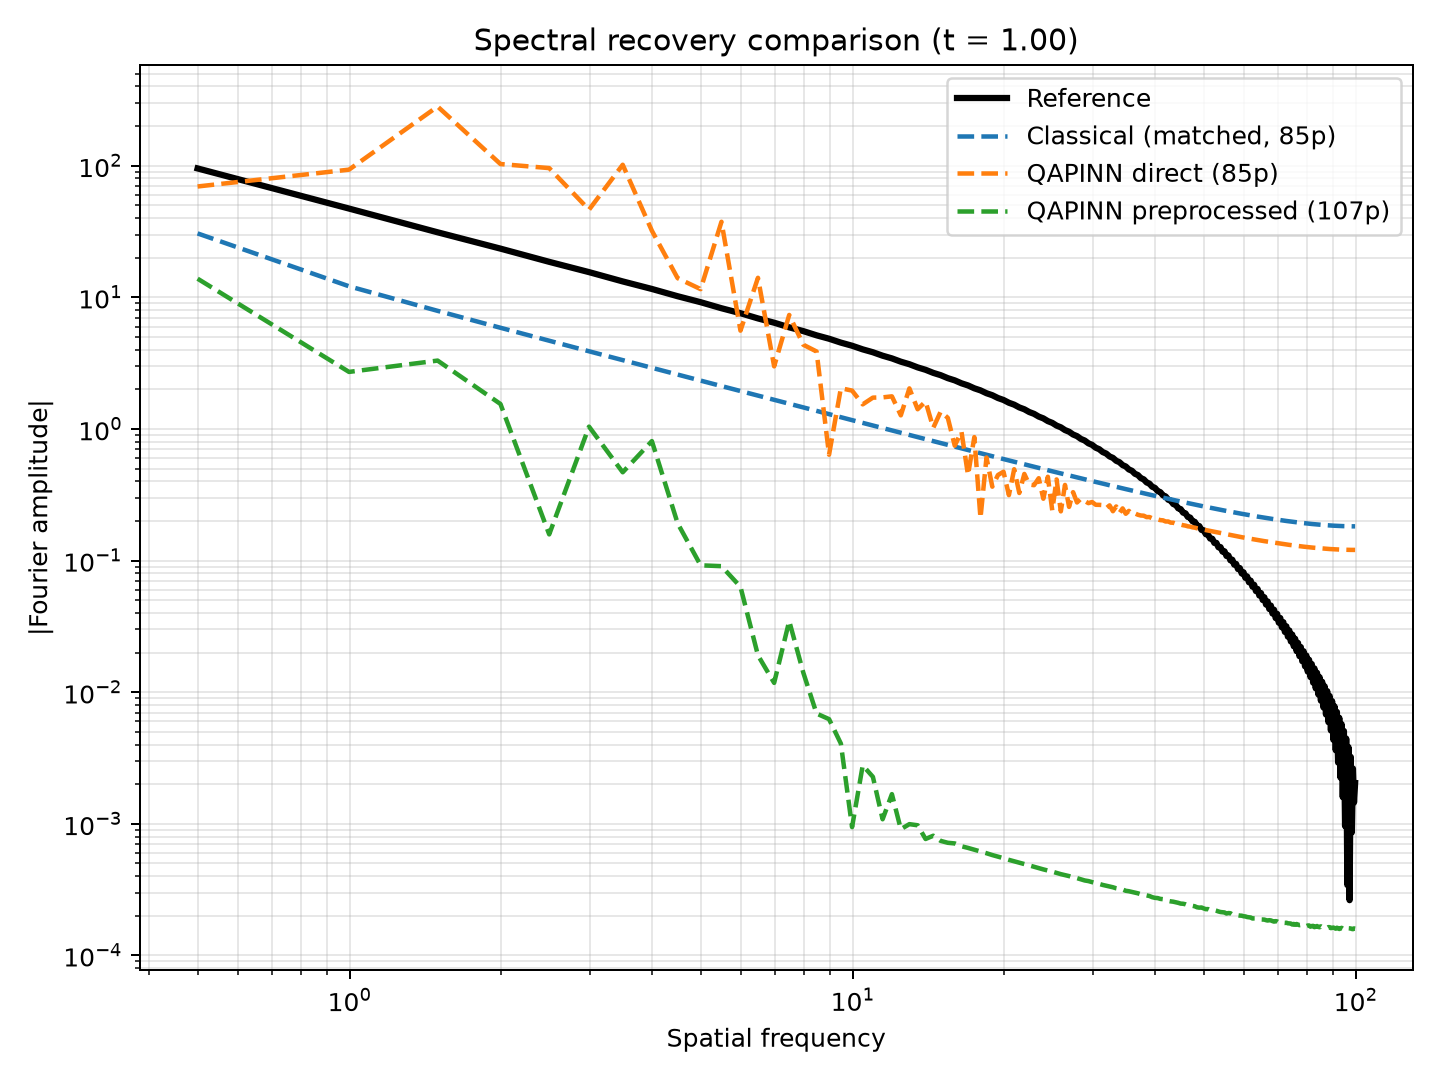
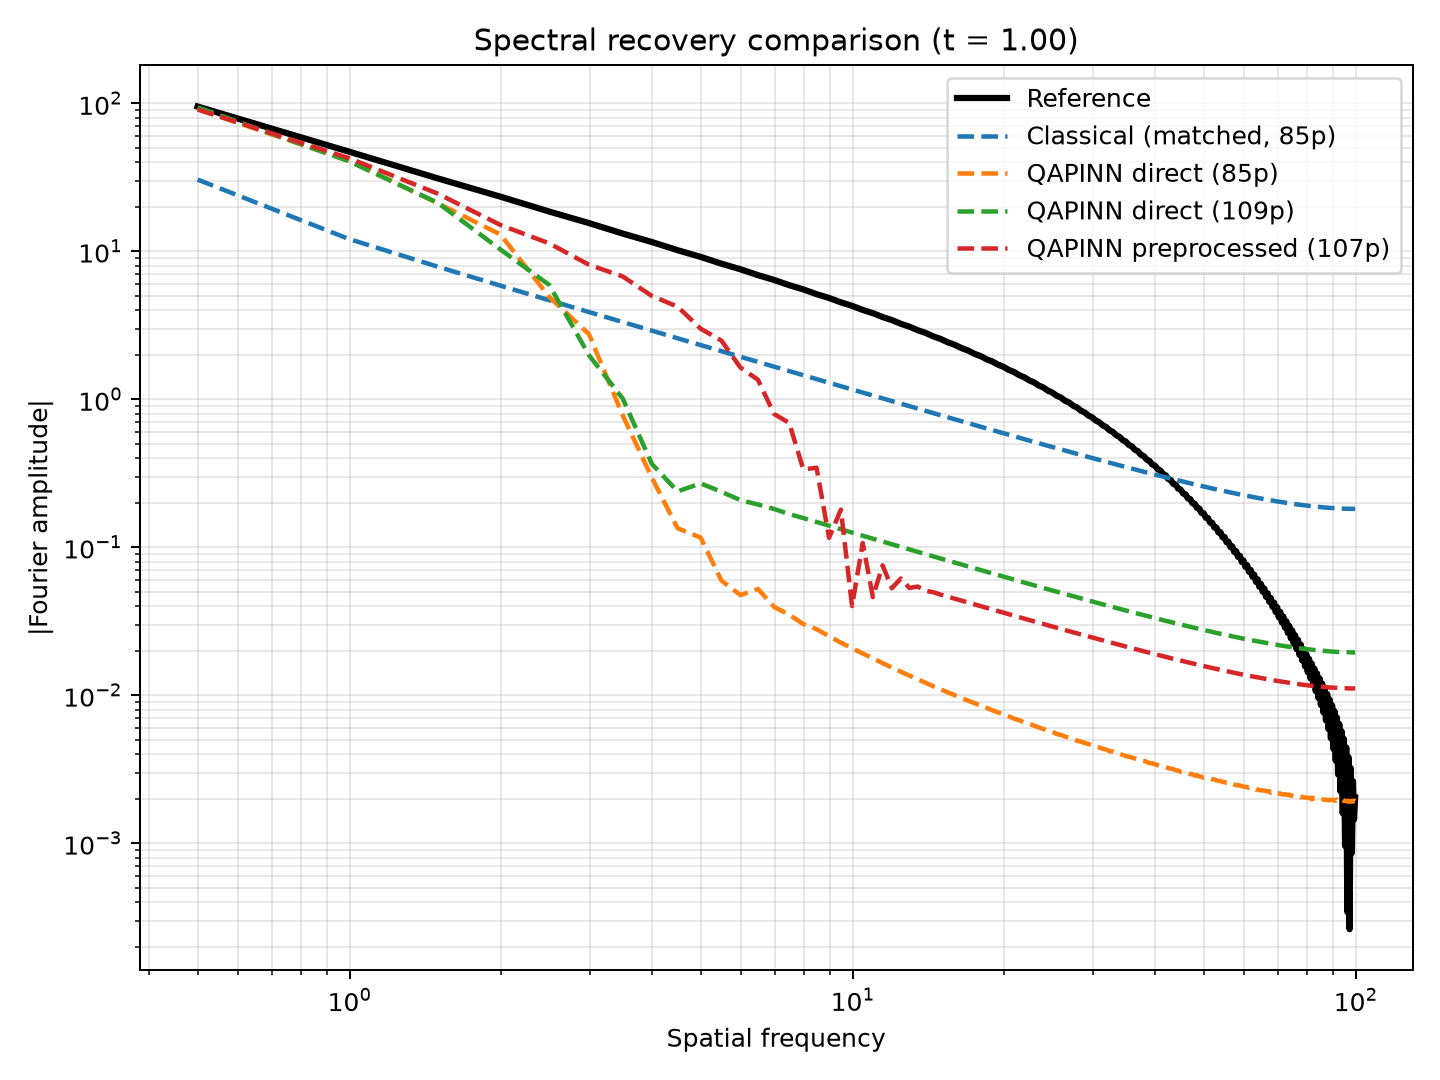
Audit and correct spectral analysis

diff --git a/spectral_comparison.py b/spectral_comparison.py
@@ -1,27 +1,54 @@
 # spectral_comparison.py
-import argparse, importlib
+import argparse
 import numpy as np, torch
 import matplotlib; matplotlib.use("Agg")
 import matplotlib.pyplot as plt
 
 from reference_solution import get_reference_solution
 from evaluate import predict_on_grid
+from config_a_matched import Config as ConfigA85Matched
+from config_b import make_variant_config
+from config_b_direct_109 import ConfigDirect109
+import model as model_a_mod
+import model_b as model_b_mod
 
-# label, config module, cfg class name, model module, checkpoint path
+# Post-hoc visualization fix only -- no retraining, no architecture change.
+# These two configs reconstruct the EXACT settings each checkpoint was
+# trained with (amplitude encoding, correct INPUT_MODE), which the
+# previous version of this script got wrong for these two curves.
+
+CfgDirect85 = make_variant_config(
+    "spectral_eval_direct85",
+    ENCODING="amplitude", N_QUBITS=4, CIRCUIT_DEPTH=3,
+    ENTANGLEMENT="circular", INPUT_MODE="direct",
+)  # CLASSICAL_HEAD_LAYERS=[8,1] inherited from ConfigB -> 36 + 49 = 85 params
+
+CfgPreproc107 = make_variant_config(
+    "spectral_eval_preproc107",
+    ENCODING="amplitude", N_QUBITS=4, CIRCUIT_DEPTH=3,
+    ENTANGLEMENT="circular", INPUT_MODE="preprocessed",
+)  # CLASSICAL_PREPROCESS_DIM=4, CLASSICAL_HEAD_LAYERS=[8,1] inherited -> 36+22+49=107
+
 MODELS = [
-    ("Classical (matched, 85p)", "config_a_matched", "Config", "model", "outputs/checkpoints/model_a_matched_85params.pt"),
-    ("QAPINN direct (85p)", "config_b", "ConfigB", "model_b", "outputs/checkpoints/amplitude_matched_budget.pt"),
-    ("QAPINN preprocessed (107p)", "config_b", "ConfigB", "model_b", "outputs/checkpoints/model_b_qapinn.pt"),
+    ("Classical (matched, 85p)", ConfigA85Matched, model_a_mod,
+     "outputs/checkpoints/model_a_matched_85params.pt"),
+
+    ("QAPINN direct (85p)", CfgDirect85, model_b_mod,
+     "outputs/checkpoints/amplitude_matched_budget.pt"),
+
+    ("QAPINN direct (109p)", ConfigDirect109, model_b_mod,
+     "outputs/checkpoints/model_b_qapinn_direct_109params_seed42.pt"),
+
+    ("QAPINN preprocessed (107p)", CfgPreproc107, model_b_mod,
+     "outputs/checkpoints/preprocessed_amplitude.pt"),
 ]
 
-def load_model(cfg_mod, cfg_name, model_mod, ckpt_path):
-    cfg = getattr(importlib.import_module(cfg_mod), cfg_name)
-    build_model = importlib.import_module(model_mod).build_model
-    model = build_model(cfg)
+def load_model(cfg, model_mod, ckpt_path):
+    model = model_mod.build_model(cfg)
     ckpt = torch.load(ckpt_path, map_location=cfg.DEVICE)
     model.load_state_dict(ckpt["model_state_dict"])
     model.eval()
-    return model, cfg
+    return model, model.count_parameters()
 
 def main():
     p = argparse.ArgumentParser(); p.add_argument("--t_index", type=int, default=-1)
@@ -35,8 +62,14 @@ def main():
 
     fig, ax = plt.subplots(figsize=(8, 6))
     ax.loglog(freqs[1:], spec_ref[1:], "k-", linewidth=2.5, label="Reference")
-    for label, cfg_mod, cfg_name, model_mod, ckpt_path in MODELS:
-        model, cfg = load_model(cfg_mod, cfg_name, model_mod, ckpt_path)
+    for label, cfg, model_mod, ckpt_path in MODELS:
+        model, n_params = load_model(cfg, model_mod, ckpt_path)
+        print(f"{label}: {ckpt_path} -> {n_params} params "
+              f"(encoding={getattr(cfg,'ENCODING','n/a')}, "
+              f"input_mode={getattr(cfg,'INPUT_MODE','n/a')}, "
+              f"qubits={getattr(cfg,'N_QUBITS','n/a')}, "
+              f"depth={getattr(cfg,'CIRCUIT_DEPTH','n/a')}, "
+              f"entanglement={getattr(cfg,'ENTANGLEMENT','n/a')})")
         U_pred = predict_on_grid(model, x_ref, t_ref, cfg.DEVICE, cfg.DTYPE)
         spec_pred = np.abs(np.fft.rfft(U_pred[args.t_index]))
         ax.loglog(freqs[1:], spec_pred[1:], "--", linewidth=1.8, label=label)

diff --git a/README.md b/README.md
@@ -304,12 +304,15 @@ All values are relative L2 errors reported as percentages.
 | Configuration | Parameters | Global L2 | Shock-region L2 | Fourier L2 |
 |---|---:|---:|---:|---:|
 | Classical — no preprocessing | 85 | **18.33 ± 2.38%** | **34.92 ± 15.66%** | **5.79 ± 2.33%** |
+| Classical — no preprocessing | 107 | 28.72 ± 6.99% | 66.04 ± 21.85% | 10.15 ± 4.82% |
 | Classical — preprocessing | 107 | 25.30 ± 5.39% | 36.54 ± 11.69% | 9.44 ± 2.81% |
 | QAPINN — direct input | 85 | 51.32 ± 3.30% | 84.72 ± 4.39% | 43.72 ± 7.44% |
 | QAPINN — direct input | 109 | 45.98 ± 1.44% | 76.02 ± 3.36% | 29.92 ± 3.08% |
 | QAPINN — preprocessed input | 107 | **43.90 ± 0.75%** | **72.46 ± 3.56%** | **24.66 ± 0.75%** |
 
 The 109-parameter direct QAPINN uses the same 4-qubit, depth-3, amplitude-encoding, circular-entanglement circuit as the other extended QAPINN configurations, with a larger classical head (4 → 12 → 1) and no preprocessing.
+
+The classical — no preprocessing, 107 parameters row is an exact parameter match with the classical — preprocessing, 107 parameters row directly below it — both have exactly 107 trainable parameters and differ only in whether the classical preprocessing block is present. This is the one exact, non-confounded preprocessing comparison in the current results; see Finding 3.
 
 It is used as an **approximately capacity-matched comparison point** to the 107-parameter preprocessed QAPINN. An exact 107-parameter 4 → h → 1 head is not achievable with a single hidden layer, so 109 parameters is the closest available configuration for this comparison.
 
@@ -367,78 +370,86 @@ Therefore:
 
 ---
 
-## 3. The Classical Comparison Does Not Show the Same Improvement Pattern
+## 3. At Fixed Capacity, Classical Preprocessing Has a Large Effect
 
-For the classical configurations:
+An exact, non-confounded classical preprocessing comparison is available at 107 parameters:
 
-| Metric | Classical — 85p | Classical — 107p |
-|---|---:|---:|
-| Global L2 | **18.33 ± 2.38%** | 25.30 ± 5.39% |
-| Shock-region L2 | **34.92 ± 15.66%** | 36.54 ± 11.69% |
-| Fourier L2 | **5.79 ± 2.33%** | 9.44 ± 2.81% |
+| Metric | Classical — 107p, no preprocessing | Classical — 107p, preprocessing | Change |
+|---|---:|---:|---:|
+| Global L2 | 28.72 ± 6.99% | **25.30 ± 5.39%** | −3.42 pp |
+| Shock-region L2 | 66.04 ± 21.85% | **36.54 ± 11.69%** | −29.50 pp |
+| Fourier L2 | 10.15 ± 4.82% | **9.44 ± 2.81%** | −0.71 pp |
 
-The 107-parameter preprocessed classical configuration does not show the same improvement pattern as the preprocessed QAPINN when compared with the corresponding 85-parameter direct configuration.
+Both configurations have exactly 107 trainable parameters, so this isolates the classical preprocessing effect without any change in capacity. At fixed capacity, preprocessing produces a large reduction in classical shock-region error (−29.50 percentage points), with smaller reductions in global and Fourier error. This is a larger effect than the residual QAPINN preprocessing effect described in Finding 2 — though the two are not directly comparable, since this classical comparison is an exact 107p-vs-107p match, while the QAPINN comparison is an approximate 109p-vs-107p match.
 
-However, this 85p versus 107p classical comparison changes both preprocessing and parameter capacity and therefore should **not** be interpreted as a preprocessing-only comparison.
+A separate pattern is visible from the full six-row table above: increasing classical capacity **without** preprocessing (85p → 107p, no preprocessing) does not improve performance — global, shock-region, and Fourier error all increase (18.33%→28.72%, 34.92%→66.04%, 5.79%→10.15%). This is the opposite direction from the QAPINN capacity effect in Finding 2, where increasing capacity (85p→109p, no preprocessing) improved all three metrics. This asymmetry is an observed pattern in the current results, not something the current experiments explain.
 
-Importantly, an additional 107-parameter classical configuration with preprocessing and without preprocessing provides an exact fixed-capacity comparison on the classical side. This allows the classical preprocessing effect to be examined independently of parameter count.
+The earlier framing of this comparison (85p classical, no preprocessing, vs. 107p classical, preprocessing) mixed a negative capacity effect with a positive preprocessing effect, which partially cancelled and made the classical preprocessing benefit look smaller than it is. The exact 107p-vs-107p comparison above is the correct comparison for isolating classical preprocessing.
 
-The observed difference between the classical and QAPINN comparisons does **not** establish that the effect is caused by the quantum representation.
+This does **not** establish that the classical and QAPINN preprocessing effects share the same mechanism, or that either is caused by preprocessing acting on the quantum representation specifically.
 
-Note that the classical fixed-capacity comparison is an **exact** parameter match, whereas the quantum-side 109p versus 107p comparison is only an **approximate** parameter match because an exact 107-parameter 4 → h → 1 quantum-side head is not achievable with a single hidden layer.
+Note that the classical fixed-capacity comparison above is an **exact** parameter match, whereas the quantum-side 109p versus 107p comparison in Finding 2 is only an **approximate** parameter match, because no exact 107-parameter single-hidden-layer 4 → h → 1 head exists.
 
 ---
 
 # Important Experimental Limitation
 
-The original 85p direct → 107p preprocessed QAPINN comparison was confounded by both preprocessing and increased parameter capacity, since introducing preprocessing increased the QAPINN from 85 to 107 trainable parameters.
+The original 85p direct → 107p preprocessed QAPINN comparison was confounded by both preprocessing and increased parameter capacity, since introducing preprocessing increased the QAPINN from 85 to 107 trainable parameters. The equivalent classical comparison (85p no-preprocessing vs. 107p preprocessing) shares the same confound.
 
-This confound has now been **substantially, but not completely, addressed**.
+This confound is resolved differently on each side of the study:
 
-- **Classical side:** preprocessing can be evaluated at fixed capacity using the existing 107-parameter classical configurations with and without preprocessing. The separate 85p versus 107p comparison still reflects a capacity change and should not be interpreted as a preprocessing-only comparison.
+- **Classical side — resolved exactly.** An exact, fixed-capacity comparison exists at 107 parameters: classical — no preprocessing (28.72 ± 6.99% global) versus classical — preprocessing (25.30 ± 5.39% global), both with exactly 107 trainable parameters. This isolates the classical preprocessing effect with no capacity change, and shows a large effect on shock-region error in particular (−29.50 percentage points). **This comparison is not missing from the current results** — see Finding 3.
 
-- **Quantum side:** the new Direct QAPINN — 109p experiment provides an approximately capacity-matched comparison point to the 107p preprocessed QAPINN. Both use the same quantum circuit configuration, while the direct 109p model uses a larger classical head. An exact 107-parameter 4 → h → 1 head is not achievable with a single hidden layer.
+- **Quantum side — resolved approximately.** The Direct QAPINN — 109p configuration provides an approximately, not exactly, capacity-matched comparison point to the 107p preprocessed QAPINN (a 2-parameter difference, since no exact 107-parameter single-hidden-layer 4 → h → 1 head exists). The residual Fourier-spectrum difference is clearly separated across the observed mean ± SD ranges, while the global and shock-region differences remain less clearly distinguished from seed-to-seed variability at n = 3.
 
-The remaining limitations are therefore narrower:
+The remaining limitations are therefore:
 
-- The quantum-side 109p versus 107p comparison is approximately, not exactly, capacity-matched.
-- At n = 3 seeds, the residual global and shock-region differences between the 109p direct and 107p preprocessed QAPINNs have overlapping mean ± SD ranges and should be treated as weaker evidence.
-- The residual Fourier-spectrum difference is the most clearly supported residual difference, but does not by itself establish that preprocessing removes spectral bias.
-- The current experiments do not establish that the observed residual difference is uniquely caused by the quantum representation.
-
-The current evidence therefore supports an **observed error-reduction decomposition** in which increased capacity explains a substantial part of the original QAPINN improvement, while a smaller and metric-dependent residual difference remains.
+- The quantum-side 109p vs. 107p comparison is approximate, not exact, unlike the classical-side 107p vs. 107p comparison, which is exact.
+- The residual QAPINN global and shock-region differences have not been distinguished from seed-to-seed variability at n = 3 seeds.
+- The current experiments do not establish that the classical and QAPINN preprocessing effects share a common cause, or that any observed effect is uniquely attributable to the quantum representation.
+- Why classical capacity alone (85p → 107p, no preprocessing) increases error while QAPINN capacity alone (85p → 109p, no preprocessing) decreases error is an open question the current experiments do not explain.
 
 ---
 
 # Frequency-Domain Analysis
 
-A frequency-domain comparison was performed using:
+To examine how the models represent spatial frequencies, we compare the Fourier
+amplitude spectrum of the predicted solution with the numerical reference
+solution at t = 1.00, using the corrected spectral comparison
+(`spectral_comparison.py`, fixed to reconstruct each checkpoint with the exact
+encoding and input mode it was trained with).
 
-```text
-outputs/figures/spectral_comparison_all_models.png
-```
+The corrected spectral comparison shows that the three QAPINN configurations
+learn substantially different frequency profiles. The direct 85-parameter
+QAPINN exhibits the strongest spectral attenuation over the intermediate and
+higher-frequency range. Increasing the direct QAPINN capacity to 109 parameters
+changes the spectrum substantially and reduces the Fourier-spectrum error from
+43.72 ± 7.44% to 29.92 ± 3.08%.
 
-The comparison includes the reference solution and the evaluated classical and QAPINN configurations.
+The approximately capacity-matched preprocessed 107-parameter QAPINN produces
+a further reduction in Fourier-spectrum error to 24.66 ± 0.75%. Its spectral
+profile also differs visibly from the direct 109-parameter model — tracking
+the reference furthest into the frequency range of the three QAPINN
+configurations before a region of irregular behaviour around frequencies 8–12
+— indicating that preprocessing changes the learned frequency representation
+beyond the capacity change alone.
 
-The direct QAPINN shows pronounced deviations from the reference spectrum, including irregular behaviour in parts of the low-to-mid frequency range.
+Spectral amplitude alone is not a direct proxy for accuracy: at the highest
+frequencies the reference spectrum itself decays sharply, so the classical
+model's comparatively higher amplitude in this range does not necessarily
+indicate closer agreement with the reference than the more strongly attenuated
+QAPINN curves. The correct comparison is distance from the reference spectrum,
+not amplitude in isolation.
 
-The preprocessed QAPINN has a substantially lower Fourier-spectrum error:
+These results should not be interpreted as evidence that preprocessing removes
+spectral bias or universally improves high-frequency learning. Furthermore, the
+109-parameter direct model and 107-parameter preprocessed model are only
+approximately capacity-matched, and the comparison uses three random seeds.
 
-```text
-43.72 ± 7.44%
-        ↓
-24.66 ± 0.75%
-```
-
-The spectrum also indicates that the preprocessed QAPINN does not simply recover all reference high-frequency content. Some high-frequency components are attenuated relative to the reference.
-
-Therefore, the current result should **not** be interpreted as proof that preprocessing removes spectral bias or that the quantum representation learns high-frequency information better.
-
-A cautious interpretation is:
-
-> **Preprocessing substantially changes the frequency distribution learned by the QAPINN and reduces its Fourier-spectrum error, but the resulting spectrum also shows attenuation of higher-frequency components relative to the reference.**
-
-This motivates a more quantitative frequency-domain investigation.
+The frequency-domain results therefore support a narrower conclusion:
+increased capacity produces a substantial change in QAPINN spectral behaviour,
+while preprocessing is associated with an additional, smaller reduction in
+Fourier-spectrum error after approximately controlling for capacity.
 
 ---
 
@@ -485,6 +496,8 @@ Frequency-domain and spatial-domain metrics therefore need to be interpreted tog
 - Increasing QAPINN capacity from 85 to 109 parameters, without preprocessing, produces consistent error reductions across global, shock-region, and Fourier metrics.
 - This capacity increase accounts for a substantial part of the original 85p → 107p QAPINN improvement.
 - A smaller residual difference remains between the approximately capacity-matched direct QAPINN (109p) and preprocessed QAPINN (107p).
+- At exactly matched capacity (107 parameters), classical preprocessing produces a large reduction in shock-region error (66.04% → 36.54%) and smaller reductions in global and Fourier error.
+- Increasing classical capacity without preprocessing (85p → 107p) increases global, shock-region, and Fourier error — the opposite direction from the QAPINN capacity effect (85p → 109p, which decreases all three).
 - The residual Fourier-spectrum difference is the clearest remaining signal in the current three-seed comparison.
 - The preprocessed QAPINN still under-resolves the sharp shock.
 - Preprocessing changes the learned QAPINN frequency spectrum substantially.
@@ -502,6 +515,7 @@ We cannot currently conclude that:
 - the observed spectral changes are uniquely caused by the quantum representation;
 - the 109p versus 107p quantum comparison is an exact parameter match;
 - the observed capacity/residual decomposition constitutes formal causal attribution.
+- that the classical and QAPINN preprocessing effects share the same underlying mechanism, or why classical and QAPINN capacity affect error in opposite directions;
 
 Further controlled experiments, particularly stronger fixed-capacity quantum-side preprocessing ablations and larger seed counts, are required before making stronger claims.
 
